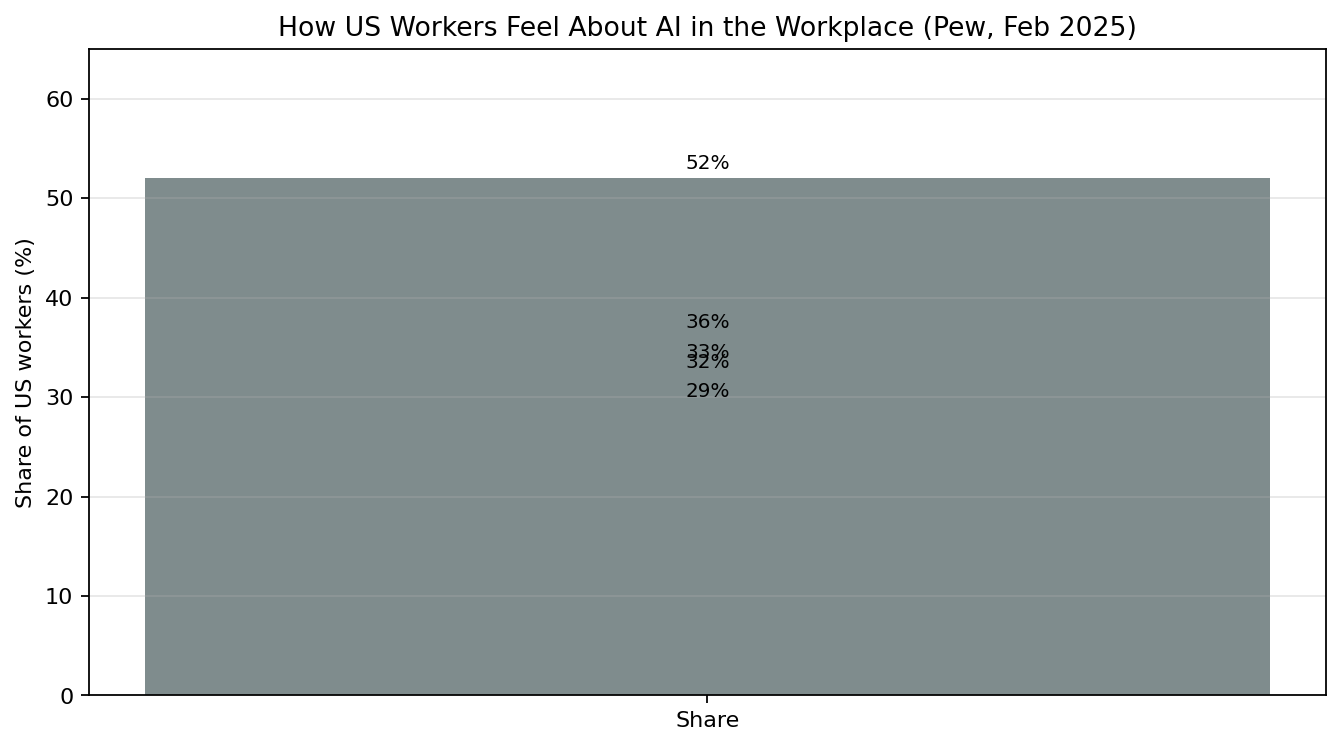
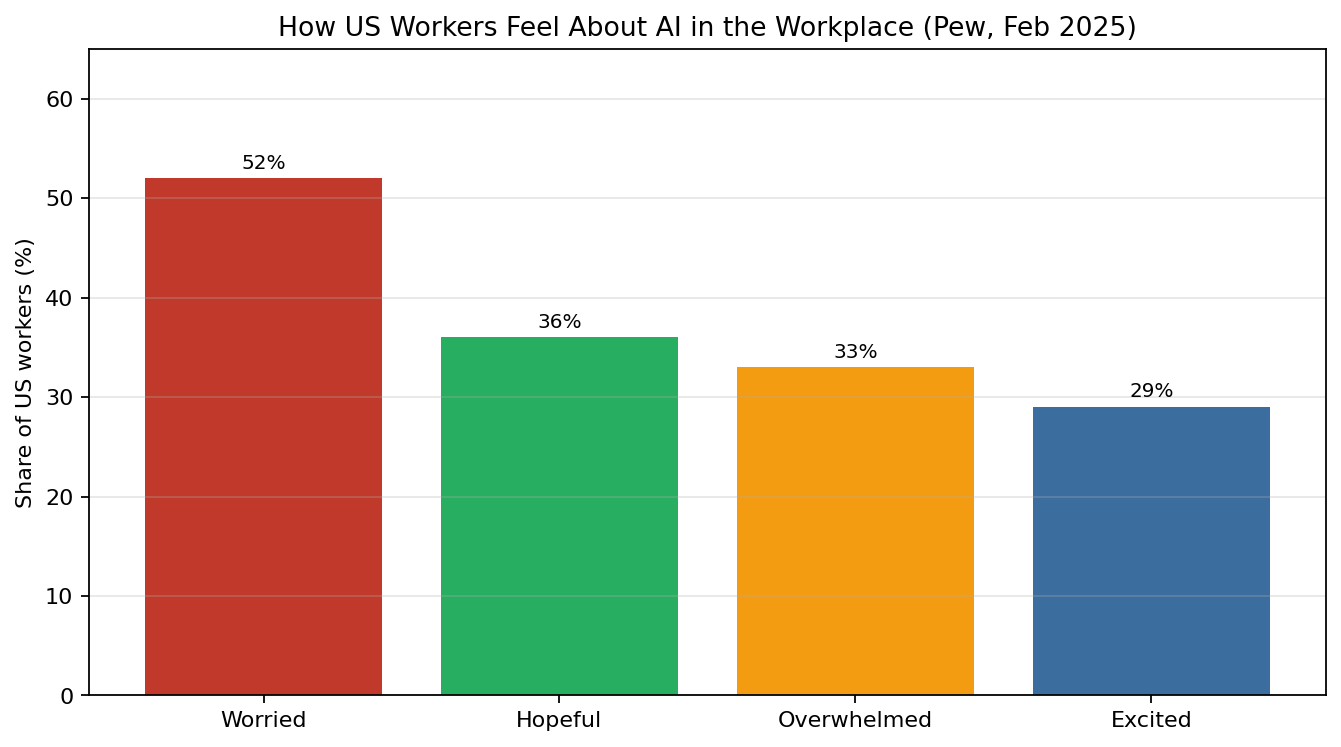
Fix AI era report: back Microsoft 2024 stats with data, repair Figure 9b labels and Figure 14 label overlap in replication and charts

diff --git a/public/reports/ai-era-daily-life/index.html b/public/reports/ai-era-daily-life/index.html
@@ -1006,7 +1006,8 @@ window._echartsReady = true;
         [5,7,'Mental health and AI stress'],[4,7,'Labour policy and social protection']
       ],
       itemStyle: { color: '#1e3a5f', opacity: 0.75 },
-      label: { show: true, fontSize: 9.5, formatter: function(p) { return p.data[2]; }, position: 'top' }
+      label: { show: true, fontSize: 9.5, formatter: function(p) { return p.data[2]; },
+        position: function(pt) { return pt.dataIndex % 2 === 0 ? 'top' : 'bottom'; }, distance: 8 }
     }]
   });
   window.addEventListener('resize', function() { c14.resize(); });

diff --git a/public/reports/ai-era-daily-life/scripts/replicate.py b/public/reports/ai-era-daily-life/scripts/replicate.py
@@ -427,10 +427,16 @@ ax.grid(axis="y", alpha=0.3)
 fig.tight_layout()
 save_fig(fig, "fig09a_job_worries.png")
 
-sentiments = df_job[df_job["survey"] == "Pew Research Center"].sort_values("value_pct")
+sentiments = df_job[df_job["survey"] == "Pew Research Center"]
+sentiments = sentiments[sentiments["indicator"].str.contains(
+    "worried|hopeful|overwhelmed|excited", case=False)]
+sentiments = sentiments.sort_values("value_pct", ascending=False)
 fig, ax = plt.subplots(figsize=(8.5, 4.8))
 cols_map = {"worried": C_RED, "overwhelmed": C_AMBER, "hopeful": C_GREEN, "excited": C_BLUE}
-labels2 = [s.split()[0].capitalize() for s in sentiments["indicator"]]
+label_map = {"worried": "Worried", "overwhelmed": "Overwhelmed",
+             "hopeful": "Hopeful", "excited": "Excited"}
+labels2 = [label_map.get(s.split()[1].strip(",").lower(), "Other")
+           for s in sentiments["indicator"]]
 colors2 = [cols_map.get(l.lower(), C_GREY) for l in labels2]
 bars = ax.bar(labels2, sentiments["value_pct"], color=colors2)
 for b, v in zip(bars, sentiments["value_pct"]):
@@ -596,9 +602,10 @@ check_columns(df_research, "ai_era_research_opportunities.csv",
 fig, ax = plt.subplots(figsize=(10, 6))
 sc = ax.scatter(df_research["data_availability"], df_research["theoretical_significance"],
                 s=220, color=C_NAVY, alpha=0.75, edgecolor="white")
-for _, row in df_research.iterrows():
+for i, (_, row) in enumerate(df_research.iterrows()):
+    dy = 9 if i % 2 == 0 else -18
     ax.annotate(row["topic"], (row["data_availability"], row["theoretical_significance"]),
-                textcoords="offset points", xytext=(6, 4), fontsize=8.5)
+                textcoords="offset points", xytext=(6, dy), fontsize=8.5)
 ax.set_xlim(0, 10)
 ax.set_ylim(0, 10.5)
 ax.set_title("Figure 14: Research Opportunities by Data Availability and Theoretical Significance")
